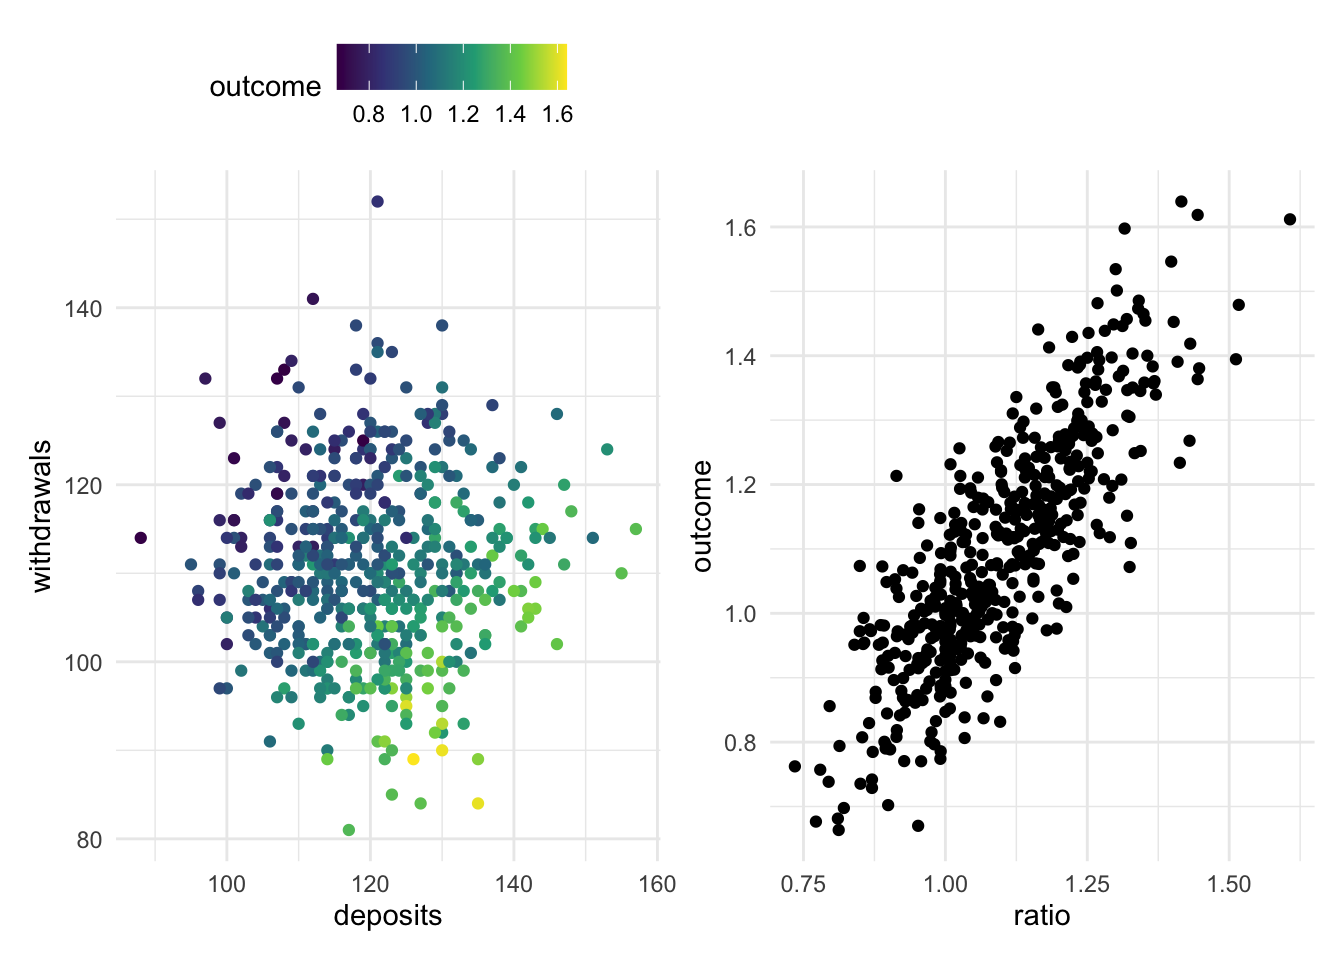
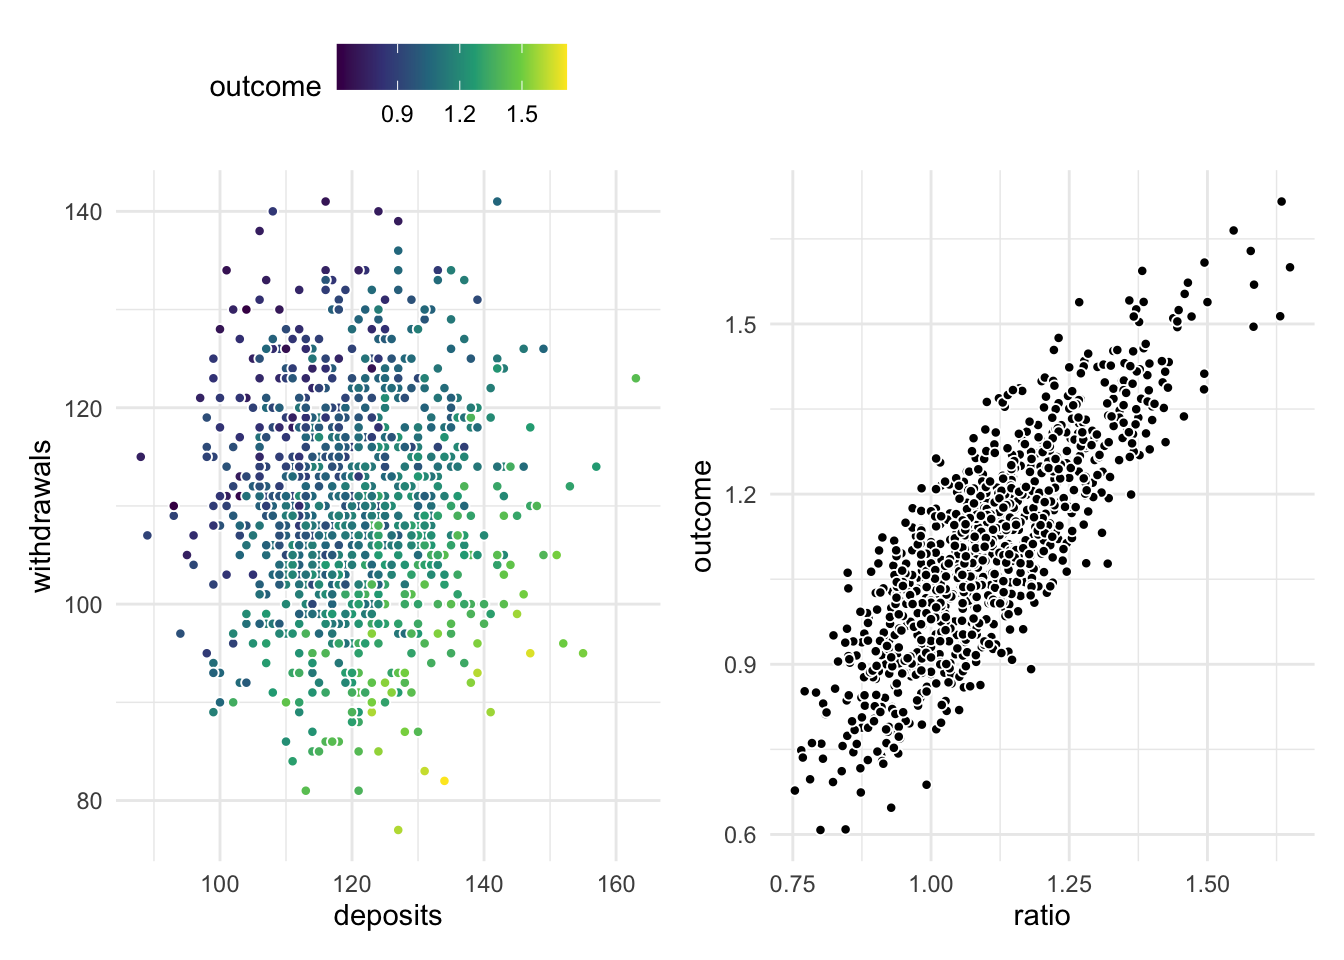
more work on ratios

diff --git a/_book/numeric-arithmetic.html b/_book/numeric-arithmetic.html
@@ -1240,7 +1240,8 @@ ul.task-list li input[type="checkbox"] {
 <h2 data-number="14.1" class="anchored" data-anchor-id="arithmetic"><span class="header-section-number">14.1</span> Arithmetic</h2>
 </section>
 <p>With domain knowledge, we can generate quite good features by combining multiple existing numeric variables. This chapter is less about methods, but rather exploring and reinforcing the idea that powerful transformations can happen when you apply simple arithmetic operators carefully and thoughtfully.</p>
-<p>An important kind of transformation we can get with arithmetic operators is <em>ratios</em>. Simply dividing two columns by each other can give us better insights than what we could get without.</p>
+<p>An important kind of transformation we can get with arithmetic operators is <em>ratios</em>. Simply dividing two columns by each other can give us better insights than what we could get without them. The use of ratios is already common practice in most industries. What we are trying to do is identify them and apply them if they are not already there. Ratios come in many fashions such as the debt ratio (total debt/total assets), bathrooms-to-bedrooms ratio (number of bathrooms/bedrooms), and orders-to-reviews ratio (orders/reviews).</p>
+<p>Below we are seeing such a ratio in action. This fictitious data set contains the number of deposits and withdrawals from some customers. There is a clear effect between the predictors <code>deposits</code> and <code>withdrawals</code> and the outcome variable, but they both contribute to the But they contribute to the outcome together. By taking the ratio between these two variables we get a singular variable that has a linear relationship with the outcome.</p>
 <div class="cell">
 <div class="cell-output-display">
 <div id="fig-numeric-ratios" class="quarto-figure quarto-figure-center quarto-float anchored" alt="2 scatter charts. The left chart has points evenly scattered along the x (deposits) and y (withdrawals) axis. A color scale is used to indicate the outcome variable, which appears to have high values when deposits are high and withdrawals are low. The right chart shows the ratio of these two variables plotted along the x-axis and the outcome plotted along the y-axis. They appear to follow each other linearly with some noise.">
@@ -1255,7 +1256,22 @@ Figure&nbsp;14.1: Some relationships can be detangled using ratios.
 </div>
 </div>
 </div>
+<p>The ordering of these ratios doesn’t matter to the performance but can be helpful later on when we try to interpret the model later on. Another thing we often do is to take the logarithm <span class="quarto-unresolved-ref">?sec-sec-numeric-logarithms</span> of the resulting ratio to give us some better intervals.</p>
+<div class="callout callout-style-default callout-caution callout-titled">
+<div class="callout-header d-flex align-content-center">
+<div class="callout-icon-container">
+<i class="callout-icon"></i>
+</div>
+<div class="callout-title-container flex-fill">
+TODO
+</div>
+</div>
+<div class="callout-body-container callout-body">
+<p>maybe show how log and logit can influence the scales and how they interact with ratios</p>
+</div>
+</div>
 <p>feature crosses (seems like too much on that word. But will include for SEO) https://developers.google.com/machine-learning/crash-course/feature-crosses/encoding-nonlinearity</p>
+<p>we can thing of ratios and crosses as identical, once we ally inversion of variables</p>
 <p>automatic try-all combinations</p>
 <section id="pros-and-cons" class="level2" data-number="14.2">
 <h2 data-number="14.2" class="anchored" data-anchor-id="pros-and-cons"><span class="header-section-number">14.2</span> Pros and Cons</h2>
